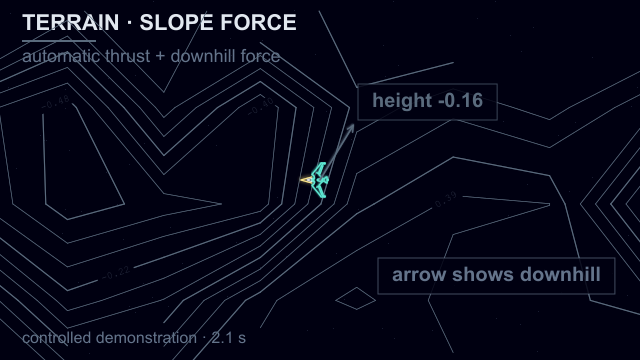
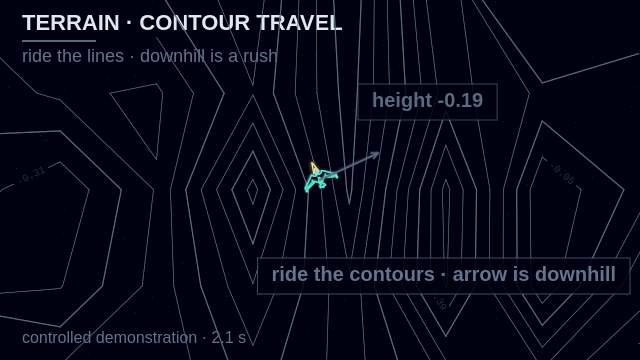
feat(terrain): ease climbs and reward contour rides (#636)
* feat(terrain): ease climbs and reward contour rides

Keep default cruise. Steep climbs stay a light tax at 70% cruise, descents more than double speed, and riding a contour keeps nearly full cruise with only a light downhill tug.

* docs(wiki): match controls and terrain demo to contour-travel feel

Controls no longer call steep climbs much slower. The terrain demonstration cites cruise travel helpers and shows contour-travel chrome.

* docs(wiki): script terrain demo along contours then downhill

The contour-travel GIF now steers with cruiseVelocity headings so the
ship rides a steep iso-line, then turns downhill. Caption, chrome, and
generator checks match that controlled setup.

* docs(wiki): refresh source review after contour-travel rebase

Drop the abandoned 50% cruise commit. Keep PLAYER_SPEED_SCALE at 1.25 and retuned climb/descent/contour travel. Re-accept wiki source review on latest main.

* docs(wiki): accept source review after rebase onto schematic join hint

Rebase onto main includes #629 hold-to-equip copy. Keep contour-travel wiki facts and retuned TERRAIN hashes.

---------

diff --git a/scripts/wiki-media.ts b/scripts/wiki-media.ts
@@ -39,7 +39,7 @@ import {
   isSmallRoid,
   LOOT_BLAST,
 } from '../shared/lootBlast';
-import { cruiseSpeed } from '../shared/shipFlight';
+import { cruiseSpeed, cruiseVelocity } from '../shared/shipFlight';
 import { applyLootMass, GROWTH, lootOverlap } from '../shared/shipGrowth';
 import type { AsteroidData, Position, SatellitePickupTypeId, Velocity } from '../shared-types';
 import { DAMAGE, GAME, PALETTE, SATELLITE_PICKUP, SHIP, TITLE, VISUAL } from '../src/constants';
@@ -75,6 +75,7 @@ import {
 } from '../src/physics/shockwave';
 import { extractIsoContours } from '../src/physics/terrain/contours';
 import { sampleGradient, sampleHeight } from '../src/physics/terrain/heightfield';
+import { TERRAIN } from '../src/physics/terrain/terrainConfig';
 import { getTerrainField } from '../src/physics/terrain/terrainSession';
 import { drawContourLabels } from '../src/rendering/contourLabels';
 import type { DrawingContext } from '../src/rendering/drawingContext';
@@ -883,38 +884,72 @@ function makeMovementDemo(): Demo {
   };
 }
 
+const TERRAIN_DOWNHILL_START_FRAME = 28;
+const TERRAIN_TURN_PER_TICK = (SHIP.TURN_SPEED * Math.PI) / (180 * GAME.FPS);
+
+/** Nose angle whose cruiseVelocity (canvas y-down) points along `(dirX, dirY)`. */
+function headingForDirection(dirX: number, dirY: number): number {
+  return Math.atan2(-dirY, dirX);
+}
+
+function headingAlongContour(gradientX: number, gradientY: number, preferredAngle: number): number {
+  const magnitude = Math.hypot(gradientX, gradientY);
+  if (magnitude <= 0) {
+    return preferredAngle;
+  }
+  const tangentA = headingForDirection(-gradientY, gradientX);
+  const tangentB = headingForDirection(gradientY, -gradientX);
+  const preferred = cruiseVelocity(preferredAngle, 1);
+  const alignment = (angle: number) => {
+    const heading = cruiseVelocity(angle, 1);
+    return heading.x * preferred.x + heading.y * preferred.y;
+  };
+  return alignment(tangentA) >= alignment(tangentB) ? tangentA : tangentB;
+}
+
+function headingDownhill(gradientX: number, gradientY: number, fallback: number): number {
+  return Math.hypot(gradientX, gradientY) <= 0
+    ? fallback
+    : headingForDirection(-gradientX, -gradientY);
+}
+
 function makeTerrainDemo(): Demo {
   const field = getTerrainField();
-  const candidates: Position[] = [
-    { x: 720, y: 410 },
-    { x: -720, y: 410 },
-    { x: 620, y: -520 },
-    { x: -620, y: -520 },
-  ];
-  const start = candidates.find((candidate) => {
-    const gradient = sampleGradient(field, candidate.x, candidate.y);
-    return Math.hypot(gradient.x, gradient.y) > 0.0001;
-  });
-  if (start === undefined) {
-    throw new Error('wiki-media verification failed: terrain field has no measurable slope');
+  let start: Position | undefined;
+  let startSteepness = 0;
+  for (let x = -2400; x <= 2400; x += 80) {
+    for (let y = -2400; y <= 2400; y += 80) {
+      const gradient = sampleGradient(field, x, y);
+      const steepness = Math.hypot(gradient.x, gradient.y);
+      if (steepness > startSteepness) {
+        start = { x, y };
+        startSteepness = steepness;
+      }
+    }
+  }
+  if (start === undefined || startSteepness < TERRAIN.TRAVEL_STEEP_GRADIENT) {
+    throw new Error('wiki-media verification failed: terrain field has no steep contour');
   }
   const contours = extractIsoContours(field);
+  const cruise = cruiseSpeed(1, SHIP.MAX_VELOCITY);
+  const initialGradient = sampleGradient(field, start.x, start.y);
   const state = {
     position: copyPosition(start),
     velocity: { x: 0, y: 0 },
-    angle: 0,
+    angle: headingAlongContour(initialGradient.x, initialGradient.y, 0),
     mass: 1,
     thrust: SHIP.THRUST,
   };
-  const initialGradient = sampleGradient(field, state.position.x, state.position.y);
   const gradients: number[] = [Math.hypot(initialGradient.x, initialGradient.y)];
-  let sawSlopeMotion = false;
+  let sawContourFollow = false;
+  let maxDownhillSpeed = 0;
   return {
     id: 'terrain',
     posterFrame: 20,
     verify: () => {
       invariant(contours.length > 0, 'terrain contour extraction returned no levels');
-      invariant(sawSlopeMotion, 'terrain slope force did not move the ship');
+      invariant(sawContourFollow, 'terrain demo did not ride a contour');
+      invariant(maxDownhillSpeed > cruise * 1.5, 'terrain demo downhill was not a rush');
       invariant(
         gradients.some((gradient) => gradient > 0.0001),
         'terrain gradient samples were flat'
@@ -923,18 +958,39 @@ function makeTerrainDemo(): Demo {
     render: (ctx, frame) => {
       drawFrameChrome(
         ctx,
-        'TERRAIN · SLOPE FORCE',
-        'automatic thrust + downhill force',
+        'TERRAIN · CONTOUR TRAVEL',
+        'ride the lines · downhill is a rush',
         frame,
         PALETTE.CONTOUR
       );
       if (frame > 0) {
         runSimulationTicks(SIM_TICKS_PER_FRAME, () => {
-          advanceCruiseVelocity(state, cruiseSpeed(1, SHIP.MAX_VELOCITY));
+          const gradient = sampleGradient(field, state.position.x, state.position.y);
+          const desired =
+            frame < TERRAIN_DOWNHILL_START_FRAME
+              ? headingAlongContour(gradient.x, gradient.y, state.angle)
+              : headingDownhill(gradient.x, gradient.y, state.angle);
+          state.angle += steeringTurn(state.angle, desired, TERRAIN_TURN_PER_TICK);
+          advanceCruiseVelocity(state, cruise);
           state.position.x += state.velocity.x;
           state.position.y += state.velocity.y;
-          if (Math.hypot(state.velocity.x, state.velocity.y) > 0) {
-            sawSlopeMotion = true;
+          const speed = Math.hypot(state.velocity.x, state.velocity.y);
+          const magnitude = Math.hypot(gradient.x, gradient.y);
+          if (magnitude > TERRAIN.TRAVEL_FLAT_GRADIENT && speed > 0) {
+            const heading = cruiseVelocity(state.angle, 1);
+            const tangentAlignment = Math.abs(
+              heading.x * (-gradient.y / magnitude) + heading.y * (gradient.x / magnitude)
+            );
+            if (
+              frame < TERRAIN_DOWNHILL_START_FRAME &&
+              tangentAlignment > 0.92 &&
+              speed > cruise * 0.95
+            ) {
+              sawContourFollow = true;
+            }
+            if (frame >= TERRAIN_DOWNHILL_START_FRAME) {
+              maxDownhillSpeed = Math.max(maxDownhillSpeed, speed);
+            }
           }
         });
         const gradient = sampleGradient(field, state.position.x, state.position.y);
@@ -990,7 +1046,7 @@ function makeTerrainDemo(): Demo {
         ctx,
         'surveyor',
         { x: 0, y: 0 },
-        0,
+        state.angle,
         PALETTE.LOCAL,
         getShipKit('surveyor').size / 2,
         true
@@ -1009,7 +1065,15 @@ function makeTerrainDemo(): Demo {
         112,
         PALETTE.CONTOUR
       );
-      drawTag(ctx, 'arrow shows downhill', 390, 286, PALETTE.HUD_MUTED);
+      drawTag(
+        ctx,
+        frame < TERRAIN_DOWNHILL_START_FRAME
+          ? 'ride the contours · arrow is downhill'
+          : 'downhill rush · arrow is downhill',
+        320,
+        286,
+        PALETTE.HUD_MUTED
+      );
     },
   };
 }

diff --git a/tests/unit/entities/terrain-makes-pilots-choose-their-route.test.ts b/tests/unit/entities/terrain-makes-pilots-choose-their-route.test.ts
@@ -32,16 +32,18 @@ test.each(['surveyor', 'hauler'] as const)(
         return Math.hypot(ship.velocity.x, ship.velocity.y);
       });
       const [climb = 0, descent = 0] = speeds;
-      expect(climb).toBeGreaterThanOrEqual(cruise * 0.24);
-      expect(climb).toBeLessThan(cruise * 0.4);
-      expect(descent).toBeGreaterThan(cruise * 1.5);
-      expect(descent).toBeGreaterThan(climb * 4);
+      expect(TERRAIN.CLIMB_SPEED_FRACTION).toBe(0.7);
+      expect(TERRAIN.DESCENT_SPEED_BONUS).toBe(1.15);
+      expect(climb).toBeGreaterThanOrEqual(cruise * 0.65);
+      expect(climb).toBeLessThan(cruise * 0.82);
+      expect(descent).toBeGreaterThan(cruise * 1.9);
+      expect(descent).toBeGreaterThan(climb * 2.5);
       expect(descent).toBeLessThanOrEqual(terrainSpeedLimit(position, cruise) + 1e-9);
     }
   }
 );
 
-test('crossing a steep hillside pulls persistently downhill instead of erasing drift each frame', () => {
+test('crossing a steep hillside keeps nearly full cruise with a light downhill tug', () => {
   const field = ensureTerrain(TERRAIN.DEFAULT_SEED, { cx: 0, cy: 0, radius: WORLD.radius });
   const gradient = sampleGradient(field, position.x, position.y);
   const magnitude = Math.hypot(gradient.x, gradient.y);
@@ -58,7 +60,10 @@ test('crossing a steep hillside pulls persistently downhill instead of erasing d
     advanceCruiseVelocity(ship, kit.maxVelocity);
   }
   const downhillDrift = -(ship.velocity.x * gradient.x + ship.velocity.y * gradient.y) / magnitude;
-  expect(downhillDrift).toBeGreaterThan(kit.maxVelocity * 0.35);
+  expect(TERRAIN.CROSS_SLOPE_DRIFT).toBe(0.16);
+  expect(Math.hypot(ship.velocity.x, ship.velocity.y)).toBeGreaterThan(kit.maxVelocity * 0.98);
+  expect(downhillDrift).toBeGreaterThan(kit.maxVelocity * 0.1);
+  expect(downhillDrift).toBeLessThan(kit.maxVelocity * 0.22);
   const before = { ...ship.velocity };
   advanceCruiseVelocity(ship, kit.maxVelocity);
   expect(ship.velocity).toEqual(before);

diff --git a/tests/unit/entities/shipMotion.test.ts b/tests/unit/entities/shipMotion.test.ts
@@ -11,6 +11,7 @@ import {
   resetWorldExploration,
   setCompletedSectors,
 } from '../../../src/network/worldExploration';
+import { TERRAIN } from '../../../src/physics/terrain/terrainConfig';
 import { canvasManager } from '../../../src/rendering/canvasSurface';
 
 afterEach(() => {
@@ -21,6 +22,8 @@ afterEach(() => {
 describe('shared ship motion helper', () => {
   test('automatic thrust accelerates at the existing pace and shots keep their speed', () => {
     expect(GAME.MOTION_SCALE).toBe(0.5625);
+    expect(GAME.PLAYER_SPEED_SCALE).toBe(1.25);
+    expect(LASER.SPEED).toBe(300 * GAME.MOTION_SCALE);
     expect(GAME.FPS).toBe(60);
     const laserStep = LASER.SPEED / GAME.FPS;
     const ship = new Ship({ position: { x: 0, y: 0 }, isLocalPlayer: true });
@@ -88,6 +91,8 @@ describe('shared ship motion helper', () => {
 
     const capped = applyThrustOrFriction({ x: 20, y: 0 }, 0, true, GAME.FRICTION);
     const speed = Math.hypot(capped.x, capped.y);
+    expect(SHIP.THRUST).toBe(5 * GAME.MOTION_SCALE * GAME.PLAYER_SPEED_SCALE);
+    expect(getShipKit('hauler').thrust).toBe(4.5 * GAME.MOTION_SCALE * GAME.PLAYER_SPEED_SCALE);
     expect(SHIP.MAX_VELOCITY).toBe(2 * GAME.MOTION_SCALE * GAME.PLAYER_SPEED_SCALE);
     expect(speed).toBeCloseTo(SHIP.MAX_VELOCITY);
   });
@@ -178,7 +183,7 @@ describe('shared ship motion helper', () => {
       ship.update();
     }
     expect(Math.hypot(ship.velocity.x, ship.velocity.y)).toBeLessThanOrEqual(
-      SHIP.MAX_VELOCITY * 1.65
+      SHIP.MAX_VELOCITY * (1 + TERRAIN.DESCENT_SPEED_BONUS)
     );
     expect(ship.velocity.x).toBeGreaterThan(SHIP.MAX_VELOCITY * 0.24);
     // After the blast decays, terrain can still bend the cruise direction.

diff --git a/src/physics/terrain/terrainConfig.ts b/src/physics/terrain/terrainConfig.ts
@@ -28,22 +28,22 @@ export const TERRAIN = {
   RIM_FADE_WIDTH: 260,
   /**
    * Downslope acceleration in the same units as SHIP.THRUST (px/s² as applied
-   * via `/ FPS` each tick). About half of thrust so ships can still climb.
+   * via `/ FPS` each tick). Stronger than climb drag so descents feel rewarding.
    */
-  SLOPE_ACCEL: 2.4 * GAME.MOTION_SCALE,
+  SLOPE_ACCEL: 3.2 * GAME.MOTION_SCALE,
   /** Extra deceleration when velocity points uphill. */
-  UPHILL_DRAG: 1.8,
+  UPHILL_DRAG: 1.15,
   /** Gradient magnitude that maps to full slope force. */
   REF_GRADIENT: 0.0035,
   GRADIENT_EPS: 6,
   /** Gentle terrain keeps ordinary handling; tight contours reach full route cost. */
   TRAVEL_FLAT_GRADIENT: 0.0002,
   TRAVEL_STEEP_GRADIENT: 0.0025,
-  /** A steep climb remains possible at one quarter of kit/mass cruise speed. */
-  CLIMB_SPEED_FRACTION: 0.25,
-  DESCENT_SPEED_BONUS: 0.65,
-  /** Cross-slope drift relative to cruise speed at full steepness. */
-  CROSS_SLOPE_DRIFT: 0.45,
+  /** A steep climb is a light tax, not a slog — still slower than following contours. */
+  CLIMB_SPEED_FRACTION: 0.7,
+  DESCENT_SPEED_BONUS: 1.15,
+  /** Light downhill tug so contour-following stays the happy path. */
+  CROSS_SLOPE_DRIFT: 0.16,
   /** Below this, contour-laser ticks stay off (flat spawn saddle stays quiet). */
   CONTOUR_LASER_MIN_GRAD: 0.00045,
 } as const;

diff --git a/src/wiki/media.ts b/src/wiki/media.ts
@@ -54,15 +54,16 @@ export const media: Record<string, WikiMediaEntry> = {
     ],
   },
   terrain: {
-    title: 'Terrain slope force',
-    alt: 'A Surveyor thrusts across the contour map while an arrow shows the downhill pull.',
+    title: 'Terrain contours and slope travel',
+    alt: 'A Surveyor rides contour lines, then turns downhill while an arrow shows the descent.',
     caption:
-      'Controlled demonstration: contour lines show the landscape while an arrow marks the downhill pull on a ship with automatic thrust.',
+      'Controlled demonstration: automatic thrust follows a contour, then the nose turns downhill so speed more than doubles; an arrow marks the downhill direction.',
     sources: [
       'src/physics/terrain/heightfield.ts',
       'src/physics/terrain/contours.ts',
       'src/physics/terrain/terrainConfig.ts',
-      'src/physics/terrain/slopeForce.ts',
+      'src/physics/terrain/terrainTravel.ts',
+      'src/entities/ship/cruiseMotion.ts',
       'src/rendering/contourLabels.ts',
     ],
   },

diff --git a/content/wiki/terrain.md b/content/wiki/terrain.md
@@ -19,9 +19,9 @@ media:
 The open world contains hills, valleys, and saddles, with a flat starter area at
 the center. Pilots in the same world share the same terrain. The server loads
 nearby world sectors as the crew travels, while the minimap keeps the local
-radar readable. Steep climbs slow your ship sharply, descents accelerate it
-beyond normal cruise, and crossing a hillside pulls you downhill even while you
-hold a steady heading. Ordinary terrain does not deal damage.
+radar readable. Following the contour lines keeps nearly full cruise. Descents
+are a rush. Steep climbs are only a light tax, enough that a longer contour
+route can still win. Ordinary terrain does not deal damage.
 
 The world is circular. Asteroids bounce inward at the outer boundary, keeping
 the remaining deposits in the world. Lasers reflect off the wall and can mine
@@ -35,14 +35,15 @@ remain available between sessions.
 Contour lines are closest together on steep slopes and farther apart on gentle
 ground. Faint numbers mark relative elevations, including negative values in
 valleys. Watch the contours and changes in motion to tell uphill from downhill.
-At the steepest contours, climbing is much slower than ordinary cruising, while
-descending carries you beyond the normal speed limit. Both ships can climb at
-any mass without Boost. These effects scale with slope steepness; the
+At the steepest contours, climbing is a bit slower than ordinary cruise, while a
+descent can more than double your speed. Riding along a contour is the easy
+path; a small uphill aim cancels the remaining downhill tug. Both ships can
+climb at any mass without Boost. These effects scale with slope steepness; the
 flat starter area keeps normal handling.
 
-A longer route through widely spaced contours can beat a direct steep climb.
-Ride descending slopes for speed, follow gentler contour routes when climbing,
-and steer uphill slightly to counter drift when crossing a hillside. Boost
+A longer route along the contour lines can beat a direct steep climb.
+Ride descending slopes for speed, follow the lines when you want easy travel,
+and steer uphill slightly if a hillside starts to tug you down. Boost
 stacks with downhill speed and helps climbs, but is never required to climb.
 Your ship's kit and mass still set the baseline for all of these speeds. Laser paths
 do not interact with terrain; glints where shots cross contours are visual

diff --git a/content/wiki/controls.md b/content/wiki/controls.md
@@ -37,8 +37,9 @@ share the same cruise speed. Boost multiplies that cruise and thrust, and
 Surveyor's multiplier is stronger than Hauler's. Each kit page lists its
 handling values. Turns have a capped rate; the arrow ahead of the hull shows
 the current heading. Releasing steering keeps the attained heading and automatic
-thrust. On slopes, your travel direction also includes downhill drift. Steep
-climbs are much slower; descents exceed ordinary cruise and stack with Boost.
+thrust. On slopes, following a contour keeps nearly full cruise with a light
+downhill tug. Steep climbs are only a bit slower; descents more than double
+ordinary cruise and stack with Boost.
 Combat knockback can still push the ship. W and ArrowUp are unbound.
 
 ## Mouse
